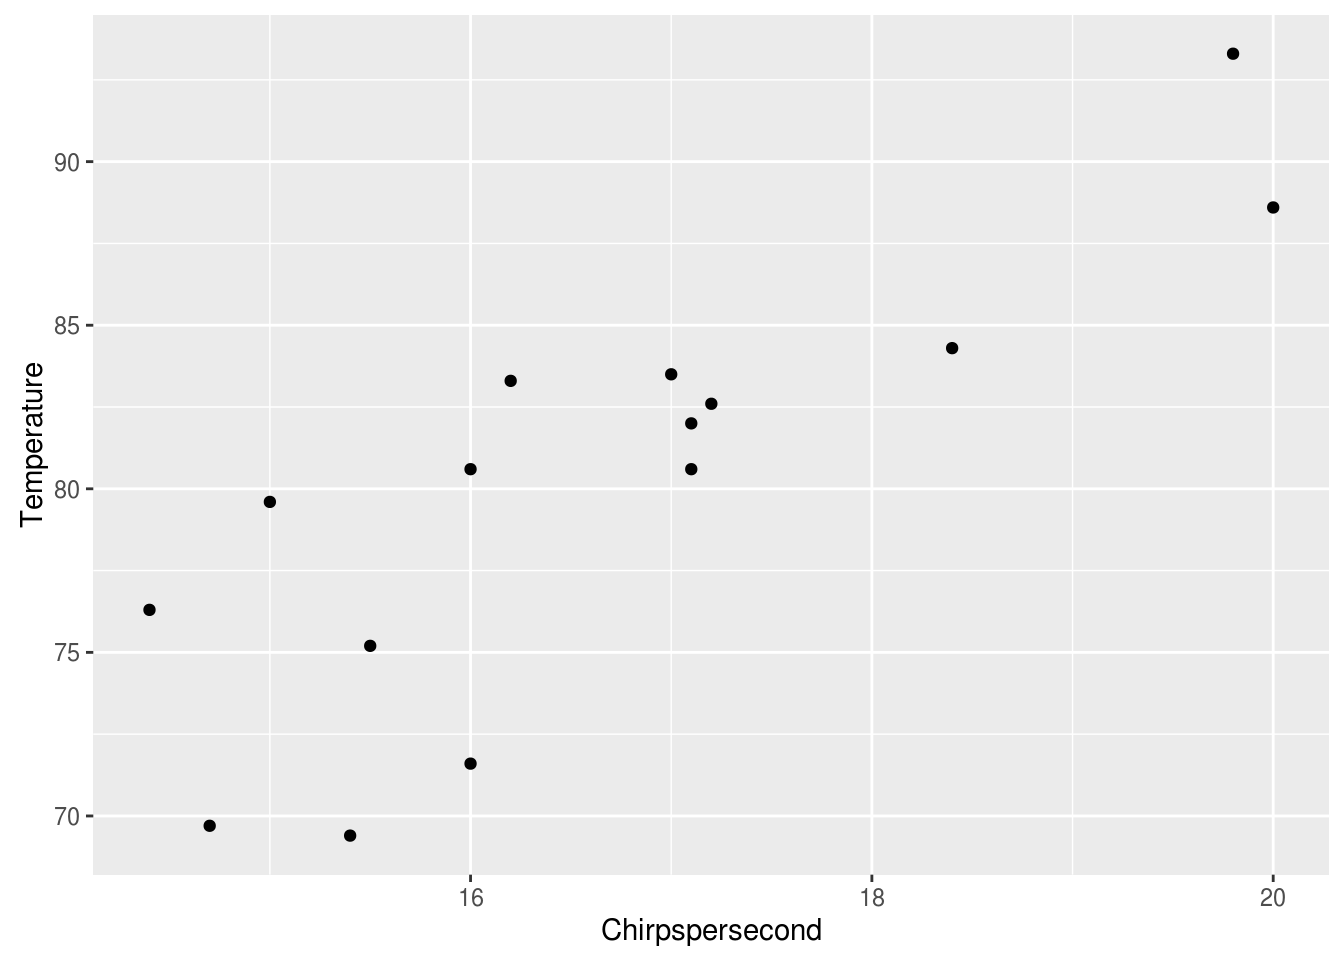
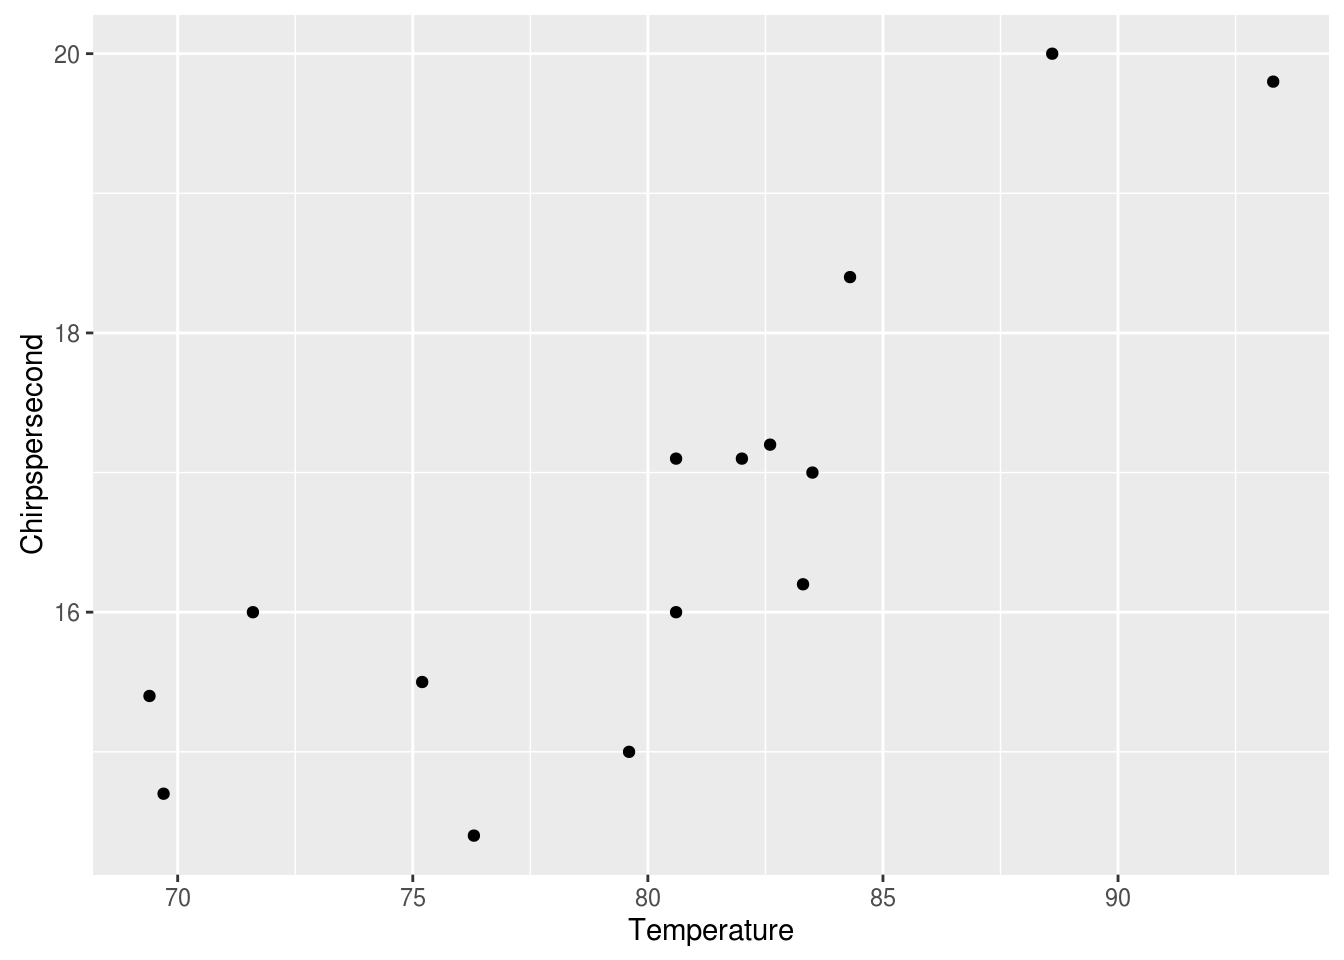
Deploy to GitHub Pages: ac1383391a7487fa3b3ca618c62a2f305f4f86be

diff --git a/interacting-with-simple-data.html b/interacting-with-simple-data.html
@@ -225,7 +225,7 @@ z &lt;-<span class="st"> </span><span class="dv">10</span></code></pre></div>
 ##     fill = TRUE, comment.char = &quot;&quot;, ...) 
 ## read.table(file = file, header = header, sep = sep, quote = quote, 
 ##     dec = dec, fill = fill, comment.char = comment.char, ...)
-## &lt;bytecode: 0x288b320&gt;
+## &lt;bytecode: 0x3d2af08&gt;
 ## &lt;environment: namespace:utils&gt;</code></pre>
 <p>Here, we get back just what <code>read.csv</code> is. In order to tell R to <strong>do</strong> or <strong>run</strong> the function, we need to run:</p>
 <div class="sourceCode"><pre class="sourceCode r"><code class="sourceCode r"><span class="kw">read.csv</span>()</code></pre></div>
@@ -410,22 +410,36 @@ crickets %&gt;%<span class="st"> </span><span class="kw">select</span>(Temperatu
 <div class="sourceCode"><pre class="sourceCode r"><code class="sourceCode r"><span class="kw">ggplot</span>(<span class="dt">data =</span> crickets)</code></pre></div>
 <p><img src="_main_files/figure-html/unnamed-chunk-20-1.png" width="672" /></p>
 <p>This gives us back a rather boring blank gray square. At this point, ggplot does not know what about the data to map to where. We can tell it to map <code>Chirpspersecond</code> as the <code>x</code>, and <code>Temperature</code> as the <code>y</code> like this:</p>
-<div class="sourceCode"><pre class="sourceCode r"><code class="sourceCode r"><span class="kw">ggplot</span>(<span class="dt">data =</span> crickets, <span class="dt">mapping =</span> <span class="kw">aes</span>(<span class="dt">x =</span> Chirpspersecond, <span class="dt">y =</span> Temperature))</code></pre></div>
+<div class="sourceCode"><pre class="sourceCode r"><code class="sourceCode r"><span class="kw">ggplot</span>(<span class="dt">data =</span> crickets, <span class="dt">mapping =</span> <span class="kw">aes</span>(<span class="dt">x =</span> Temperature, <span class="dt">y =</span> Chirpspersecond))</code></pre></div>
 <p><img src="_main_files/figure-html/unnamed-chunk-21-1.png" width="672" /></p>
 <p>At this point, <code>ggplot</code> seems to know where things should go, but there’s no points. This base layer is ready with our coordinates and axis, but we would also like <code>ggplot</code> to map the data in the same way to a layer of markings that represent the data. Let’s try points:</p>
-<div class="sourceCode"><pre class="sourceCode r"><code class="sourceCode r"><span class="kw">ggplot</span>(<span class="dt">data =</span> crickets, <span class="dt">mapping =</span> <span class="kw">aes</span>(<span class="dt">x =</span> Chirpspersecond, <span class="dt">y =</span> Temperature)) +
+<div class="sourceCode"><pre class="sourceCode r"><code class="sourceCode r"><span class="kw">ggplot</span>(<span class="dt">data =</span> crickets, <span class="dt">mapping =</span> <span class="kw">aes</span>(<span class="dt">x =</span> Temperature, <span class="dt">y =</span> Chirpspersecond)) +
 <span class="st">  </span><span class="kw">geom_point</span>()</code></pre></div>
 <p><img src="_main_files/figure-html/unnamed-chunk-22-1.png" width="672" /></p>
 <p>We now have points, each with it’s x mapped to Chirpspersecond and the y mapped to Temperature. We can also mapped the color of each point to the temperature like this:</p>
-<div class="sourceCode"><pre class="sourceCode r"><code class="sourceCode r"><span class="kw">ggplot</span>(<span class="dt">data =</span> crickets, <span class="dt">mapping =</span> <span class="kw">aes</span>(<span class="dt">x =</span> Chirpspersecond, <span class="dt">y =</span> Temperature)) +
+<div class="sourceCode"><pre class="sourceCode r"><code class="sourceCode r"><span class="kw">ggplot</span>(<span class="dt">data =</span> crickets, <span class="dt">mapping =</span> <span class="kw">aes</span>(<span class="dt">x =</span> Temperature, <span class="dt">y =</span> Chirpspersecond)) +
 <span class="st">  </span><span class="kw">geom_point</span>(<span class="dt">mapping =</span> <span class="kw">aes</span>(<span class="dt">color =</span> Temperature))</code></pre></div>
 <p><img src="_main_files/figure-html/unnamed-chunk-23-1.png" width="672" /></p>
 <p>This gives the points colors mapped from the Temperature along a default scale. We can adjust the scale to give a sense of the temperature like this:</p>
-<div class="sourceCode"><pre class="sourceCode r"><code class="sourceCode r"><span class="kw">ggplot</span>(<span class="dt">data =</span> crickets, <span class="dt">mapping =</span> <span class="kw">aes</span>(<span class="dt">x =</span> Chirpspersecond, <span class="dt">y =</span> Temperature)) +
+<div class="sourceCode"><pre class="sourceCode r"><code class="sourceCode r"><span class="kw">ggplot</span>(<span class="dt">data =</span> crickets, <span class="dt">mapping =</span> <span class="kw">aes</span>(<span class="dt">x =</span> Temperature, <span class="dt">y =</span> Chirpspersecond)) +
 <span class="st">  </span><span class="kw">geom_point</span>(<span class="dt">mapping =</span> <span class="kw">aes</span>(<span class="dt">color =</span> Temperature)) +
 <span class="st">  </span><span class="kw">scale_color_gradient</span>(<span class="dt">low =</span> <span class="st">&quot;orange&quot;</span>, <span class="dt">high =</span> <span class="st">&quot;red&quot;</span>)</code></pre></div>
 <p><img src="_main_files/figure-html/unnamed-chunk-24-1.png" width="672" /></p>
 <p>Let’s take some time to experiment with different visualizations using ggplot2. See the <a href="https://www.rstudio.com/wp-content/uploads/2015/12/ggplot2-cheatsheet-2.0.pdf">data visualization cheat sheet</a> for ideas.</p>
+<p>One of the reasons that <code>ggplot</code> is so popular is that it has a very extensible syntax. <code>ggplot</code> is built on the concept of a <em>grammar of graphics</em>. The grammar of graphics is a way to build plots in a structured way. Every plot consists of a <em>dataset</em>, <em>aesthetics</em> to map of the dataset, and a <em>geom</em> that defines how to display the data. Let’s break down our function call above into its graphical grammar elements: * <em>dataset</em> = the <em>crickets</em> data frame * <em>aesthetics</em> = the <em>Temperature</em> and <em>Chirpspersecond</em> variables * <em>geom</em> = the <em>point</em> geom (geom_point function call) is used to create a scatterplot</p>
+<p>The syntax may seem a little confusing at first, but it can create some very powerful results once you understand how it works. It allows you to build up plots in layers. It also allows you to manipulate plots in a way similar to manipulating data (via function calls). For example, we can assign our plot to a variable <em>p</em>.</p>
+<div class="sourceCode"><pre class="sourceCode r"><code class="sourceCode r"> p &lt;-<span class="st"> </span><span class="kw">ggplot</span>(<span class="dt">data =</span> crickets, <span class="dt">mapping =</span> <span class="kw">aes</span>(<span class="dt">x =</span> Temperature, <span class="dt">y =</span> Chirpspersecond)) +
+<span class="st">  </span><span class="kw">geom_point</span>(<span class="dt">mapping =</span> <span class="kw">aes</span>(<span class="dt">color =</span> Temperature)) +
+<span class="st">  </span><span class="kw">scale_color_gradient</span>(<span class="dt">low =</span> <span class="st">&quot;orange&quot;</span>, <span class="dt">high =</span> <span class="st">&quot;red&quot;</span>)
+
+p</code></pre></div>
+<p><img src="_main_files/figure-html/unnamed-chunk-25-1.png" width="672" /></p>
+<p>Now we can manipulate our plot like any other variable. Let’s add a title</p>
+<div class="sourceCode"><pre class="sourceCode r"><code class="sourceCode r"> p +<span class="st"> </span><span class="kw">ggtitle</span>(<span class="st">&quot;Cricket Chirps vs. Temperature&quot;</span>)</code></pre></div>
+<p><img src="_main_files/figure-html/unnamed-chunk-26-1.png" width="672" /></p>
+<p>We can also add another <em>geom</em> just as easily. Let’s add a smoothing function to show what a linear model might look like.</p>
+<div class="sourceCode"><pre class="sourceCode r"><code class="sourceCode r"> p +<span class="st"> </span><span class="kw">ggtitle</span>(<span class="st">&quot;Cricket Chirps vs. Temperature&quot;</span>) +<span class="st"> </span><span class="kw">geom_smooth</span>()</code></pre></div>
+<p><img src="_main_files/figure-html/unnamed-chunk-27-1.png" width="672" /></p>
 <p>Once we have a plot we like, we can save our last plot to an image file very easily:</p>
 <div class="sourceCode"><pre class="sourceCode r"><code class="sourceCode r"><span class="kw">ggsave</span>(<span class="dt">filename =</span> <span class="st">&quot;plot.png&quot;</span>)</code></pre></div>
 <pre><code>## Saving 7 x 5 in image</code></pre>
@@ -452,7 +466,7 @@ crickets %&gt;%<span class="st"> </span><span class="kw">select</span>(Temperatu
 ## (Intercept)  Temperature  
 ##     -0.3091       0.2119</code></pre>
 <p>There’s actually more information that <code>lm</code> tells us. Let’s take a look by first telling the computer the remember the result as a variable called <code>crickets_lm</code>.</p>
-<div class="sourceCode"><pre class="sourceCode r"><code class="sourceCode r">crickets_lm &lt;-<span class="st"> </span><span class="kw">lm</span>(Temperature ~<span class="st"> </span>Chirpspersecond, <span class="dt">data =</span> crickets)</code></pre></div>
+<div class="sourceCode"><pre class="sourceCode r"><code class="sourceCode r">crickets_lm &lt;-<span class="st"> </span><span class="kw">lm</span>(Chirpspersecond ~<span class="st"> </span>Temperature, <span class="dt">data =</span> crickets)</code></pre></div>
 <p>We can use the <code>broom</code> package to help us get to the information stored in the model. Let’s install that first:</p>
 <div class="sourceCode"><pre class="sourceCode r"><code class="sourceCode r"><span class="kw">install.packages</span>(<span class="st">&#39;broom&#39;</span>)</code></pre></div>
 <pre><code>## Installing package into &#39;/home/travis/R/Library&#39;
@@ -460,18 +474,18 @@ crickets %&gt;%<span class="st"> </span><span class="kw">select</span>(Temperatu
 <div class="sourceCode"><pre class="sourceCode r"><code class="sourceCode r"><span class="kw">library</span>(<span class="st">&#39;broom&#39;</span>)</code></pre></div>
 <p>For example:</p>
 <div class="sourceCode"><pre class="sourceCode r"><code class="sourceCode r"><span class="kw">tidy</span>(crickets_lm)</code></pre></div>
-<pre><code>##              term  estimate std.error statistic      p.value
-## 1     (Intercept) 25.232305 10.060119  2.508152 0.0261830660
-## 2 Chirpspersecond  3.291095  0.601167  5.474510 0.0001066719</code></pre>
+<pre><code>##          term   estimate  std.error   statistic      p.value
+## 1 (Intercept) -0.3091419 3.10858391 -0.09944782 0.9222999135
+## 2 Temperature  0.2119250 0.03871123  5.47450961 0.0001066719</code></pre>
 <p>We get the slope and the intercept from the <code>estimate</code> column.</p>
 <p>Let’s use <code>tidy()</code> and <code>geom_abline()</code> to add a line on top of our scatterplot so we can eyeball how our linear model fits.</p>
-<div class="sourceCode"><pre class="sourceCode r"><code class="sourceCode r">lm_slope &lt;-<span class="st"> </span>crickets_lm %&gt;%<span class="st"> </span>tidy %&gt;%<span class="st"> </span><span class="kw">filter</span>(term ==<span class="st"> &quot;(Intercept)&quot;</span>) %&gt;%<span class="st"> </span><span class="kw">select</span>(estimate) %&gt;%<span class="st"> </span><span class="kw">unlist</span>()
-lm_intercept &lt;-<span class="st"> </span>crickets_lm %&gt;%<span class="st"> </span>tidy %&gt;%<span class="st"> </span><span class="kw">filter</span>(term ==<span class="st"> &quot;Chirpspersecond&quot;</span>) %&gt;%<span class="st"> </span><span class="kw">select</span>(estimate) %&gt;%<span class="st"> </span><span class="kw">unlist</span>()
-<span class="kw">ggplot</span>(<span class="dt">data =</span> crickets, <span class="dt">mapping =</span> <span class="kw">aes</span>(<span class="dt">x =</span> Chirpspersecond, <span class="dt">y =</span> Temperature)) +
+<div class="sourceCode"><pre class="sourceCode r"><code class="sourceCode r">lm_intercept &lt;-<span class="st"> </span>crickets_lm %&gt;%<span class="st"> </span>tidy %&gt;%<span class="st"> </span><span class="kw">filter</span>(term ==<span class="st"> &quot;(Intercept)&quot;</span>) %&gt;%<span class="st"> </span><span class="kw">select</span>(estimate) %&gt;%<span class="st"> </span><span class="kw">unlist</span>()
+lm_slope &lt;-<span class="st"> </span>crickets_lm %&gt;%<span class="st"> </span>tidy %&gt;%<span class="st"> </span><span class="kw">filter</span>(term ==<span class="st"> &quot;Temperature&quot;</span>) %&gt;%<span class="st"> </span><span class="kw">select</span>(estimate) %&gt;%<span class="st"> </span><span class="kw">unlist</span>()
+<span class="kw">ggplot</span>(<span class="dt">data =</span> crickets, <span class="dt">mapping =</span> <span class="kw">aes</span>(<span class="dt">x =</span> Temperature, <span class="dt">y =</span> Chirpspersecond)) +
 <span class="st">    </span><span class="kw">geom_point</span>(<span class="dt">mapping =</span> <span class="kw">aes</span>(<span class="dt">color =</span> Temperature)) +
 <span class="st">    </span><span class="kw">scale_color_gradient</span>(<span class="dt">low =</span> <span class="st">&quot;orange&quot;</span>, <span class="dt">high =</span> <span class="st">&quot;red&quot;</span>) +
-<span class="st">    </span><span class="kw">geom_abline</span>(<span class="dt">slope =</span> lm_slope, <span class="dt">intercept =</span> lm_intercept)</code></pre></div>
-<p><img src="_main_files/figure-html/unnamed-chunk-31-1.png" width="672" /></p>
+<span class="st">    </span><span class="kw">geom_abline</span>(<span class="dt">slope =</span> lm_slope, <span class="dt">intercept =</span> lm_intercept, <span class="dt">color =</span> <span class="st">&quot;maroon&quot;</span>)</code></pre></div>
+<p><img src="_main_files/figure-html/unnamed-chunk-34-1.png" width="672" /></p>
 <p>Additionally, <code>cor</code> and <code>cor.test</code> are two functions that can tell us about correlations between paired samples.</p>
 <p>As before, the <code>?</code> can help us learn more:</p>
 <div class="sourceCode"><pre class="sourceCode r"><code class="sourceCode r">?cor
@@ -607,10 +621,14 @@ lm_intercept &lt;-<span class="st"> </span>crickets_lm %&gt;%<span class="st"> <
 </tbody>
 </table>
 <ol start="5" style="list-style-type: decimal">
-<li><p>Made plots of our data</p></li>
+<li><p>Made plots of our data | Code | Description | | ———————– | ———————————-| | <code>ggplot()</code> | create base layer of plot | | <code>geom_point()</code> | scatterplot geom | | ’geom_smooth()<code>| smoothing geom with confidence intervals | |</code>geom_abline()<code>| line geom               | |</code>ggtitle()` | add title to plot |</p></li>
 <li><p>Applied statistical modelling to the data</p></li>
 </ol>
-<table>
+<table style="width:82%;">
+<colgroup>
+<col width="30%" />
+<col width="51%" />
+</colgroup>
 <thead>
 <tr class="header">
 <th align="left">Code</th>
@@ -620,15 +638,15 @@ lm_intercept &lt;-<span class="st"> </span>crickets_lm %&gt;%<span class="st"> <
 <tbody>
 <tr class="odd">
 <td align="left"><code>cor(crickets)</code></td>
-<td align="left"></td>
+<td align="left">calculate correlation coefficient</td>
 </tr>
 <tr class="even">
 <td align="left"><code>cor.test(crickets)</code></td>
-<td align="left"></td>
+<td align="left">test for statistically significant correlation</td>
 </tr>
 <tr class="odd">
 <td align="left"><code>lm(crickets)</code></td>
-<td align="left"></td>
+<td align="left">create a linear model</td>
 </tr>
 </tbody>
 </table>

diff --git a/this-time-its-for-real.html b/this-time-its-for-real.html
@@ -387,7 +387,7 @@ airquality$Solar.R &lt;-<span class="st"> </span><span class="kw">with</span>(ai
 <p>We can start by visualizing the data. We have more data to play with now, but let’s start with the same plot we used last time.</p>
 <div class="sourceCode"><pre class="sourceCode r"><code class="sourceCode r">plt &lt;-<span class="st"> </span><span class="kw">ggplot</span>(aircomplete) +<span class="st"> </span><span class="kw">geom_point</span>(<span class="kw">aes</span>(<span class="dt">x=</span>Temp, <span class="dt">y=</span>Ozone))
 <span class="kw">print</span>(plt)</code></pre></div>
-<p><img src="_main_files/figure-html/unnamed-chunk-45-1.png" width="672" /></p>
+<p><img src="_main_files/figure-html/unnamed-chunk-48-1.png" width="672" /></p>
 <p>You’ll notice two new things about what we did here. First, we assign the output to <code>plt</code>, this will be important when we want to make adjustments to the plot later. Second, you’ll notice when we do that, nothing appears; we have to print the plt to get it to show up.</p>
 <p>Now, I want you to go back and do <em>everything</em> we just did over again.</p>
 <p>What, you think that’s ridiculous? The reality is, we often have to go back and make changes upstream. When we do this, it can get very, very painful if we’re doing everything interactively, in the <em>console</em>.</p>
@@ -400,7 +400,7 @@ airquality &lt;-<span class="st"> </span><span class="kw">read.csv</span>(<span 
 aircomplete &lt;-<span class="st"> </span>airquality[<span class="kw">complete.cases</span>(airquality), ]
 plt &lt;-<span class="st"> </span><span class="kw">ggplot</span>(aircomplete) +<span class="st"> </span><span class="kw">geom_point</span>(<span class="kw">aes</span>(<span class="dt">x=</span>Temp, <span class="dt">y=</span>Ozone))
 <span class="kw">print</span>(plt)</code></pre></div>
-<p><img src="_main_files/figure-html/unnamed-chunk-46-1.png" width="672" /></p>
+<p><img src="_main_files/figure-html/unnamed-chunk-49-1.png" width="672" /></p>
 <p>We can run the entire script by clicking <em>Source</em> at the top of the editor pane.</p>
 <p>To run just a specific line or lines, you can select the section you want to run and then click <em>Run</em></p>
 <p>Let’s get back to our data. You may have seen a pattern in the plot we made earlier. Let’s pick up our analysis with a little more visualization and some modeling.</p>
@@ -435,7 +435,7 @@ plt &lt;-<span class="st"> </span><span class="kw">ggplot</span>(aircomplete) +<
 <p>With that info, we’re ready to add our linear model. Add the following lines to your script and <em>Source</em> it.</p>
 <div class="sourceCode"><pre class="sourceCode r"><code class="sourceCode r">plt_2 &lt;-<span class="st"> </span>plt +<span class="st"> </span><span class="kw">geom_abline</span>(<span class="dt">intercept =</span> -<span class="fl">147.64607</span> , <span class="dt">slope =</span> <span class="fl">2.43911</span>)
 <span class="kw">print</span>(plt_2)</code></pre></div>
-<p><img src="_main_files/figure-html/unnamed-chunk-49-1.png" width="672" /></p>
+<p><img src="_main_files/figure-html/unnamed-chunk-52-1.png" width="672" /></p>
 </div>
 <div id="making-a-reproducible-report" class="section level2">
 <h2><span class="header-section-number">3.7</span> Making a reproducible report</h2>

diff --git a/time-to-start-exploring-the-data.html b/time-to-start-exploring-the-data.html
@@ -178,13 +178,13 @@ code > span.in { color: #60a0b0; font-weight: bold; font-style: italic; } /* Inf
 <h2><span class="header-section-number">4.1</span> R Graphics</h2>
 <p>R has a few graphics packages to choose from. Many useful plots come ‘out of the box’ in R. For example, if we want to see a scatterplot matrix of all the data columns in the <em>airquality</em> dataset, we could use the <em>pairs</em> funtion.</p>
 <div class="sourceCode"><pre class="sourceCode r"><code class="sourceCode r"><span class="kw">pairs</span>(airquality)</code></pre></div>
-<p><img src="_main_files/figure-html/unnamed-chunk-51-1.png" width="672" /></p>
+<p><img src="_main_files/figure-html/unnamed-chunk-54-1.png" width="672" /></p>
 <p>While the basic package is nice, we will be using <em>ggplot2</em> today. It is a powerful graphics package that is designed to make your plots adaptable, scalable, and easy to produce. It is a very popular graphics package used by a large number of R users worldwide.</p>
 <p>Many times, it’s helpful to just do a scatterplot of two variables</p>
 <div class="sourceCode"><pre class="sourceCode r"><code class="sourceCode r">p &lt;-<span class="st"> </span><span class="kw">ggplot</span>(airquality, <span class="kw">aes</span>(Ozone, Solar.R)) +<span class="st"> </span><span class="kw">geom_point</span>()
 p</code></pre></div>
 <pre><code>## Warning: Removed 42 rows containing missing values (geom_point).</code></pre>
-<p><img src="_main_files/figure-html/unnamed-chunk-52-1.png" width="672" /></p>
+<p><img src="_main_files/figure-html/unnamed-chunk-55-1.png" width="672" /></p>
 </div>
 </div>
             </section>
